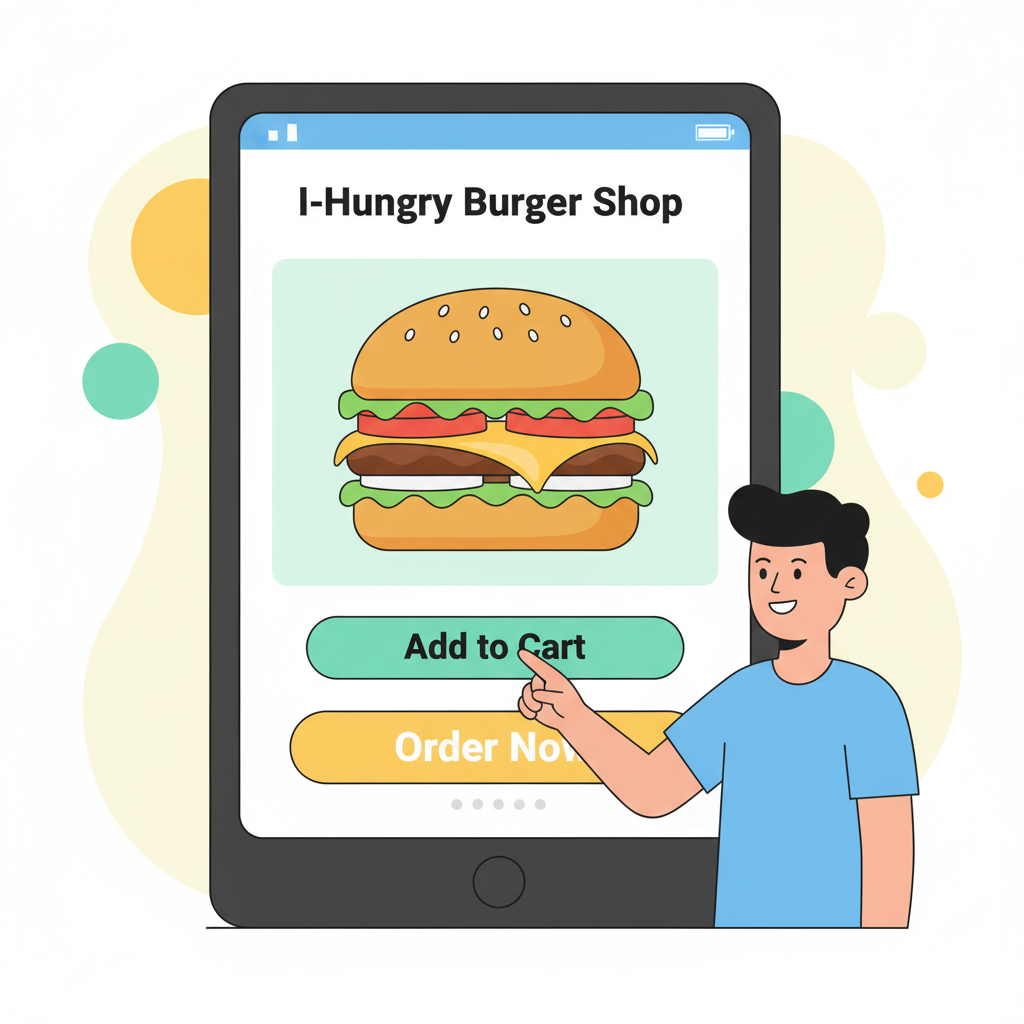
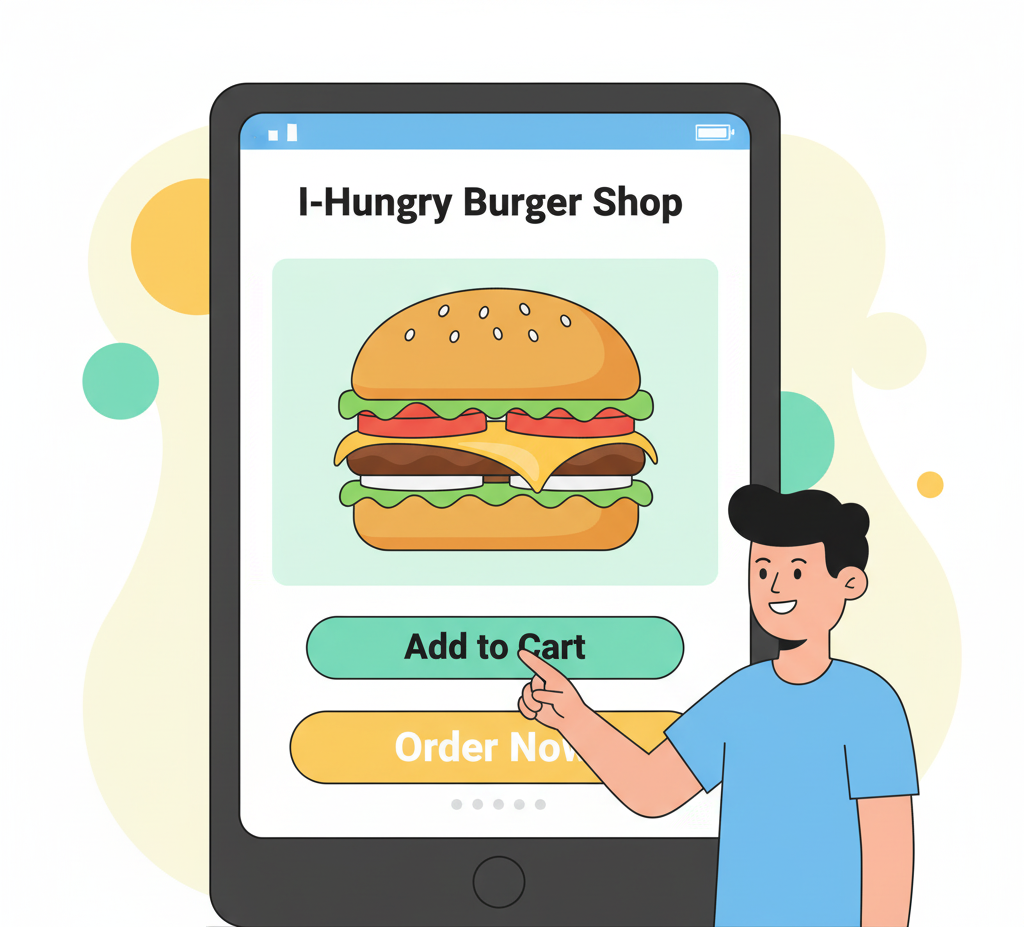
Updated featured projects section in index.html

diff --git a/Personal Portfolio/index.html b/Personal Portfolio/index.html
@@ -41,7 +41,7 @@
             </div>
             <div class="col-lg-6">
                 <h1 class="display-5 fw-bold lh-1 mb-3 hero_heading_text">
-                    Hey, I'm Shameel Software Engineering Student
+                    Hey, I'm Shameel Shajaad, Software Engineering Student
                 </h1>
                 <p class="lead hero_text">
                     I’m a Software Engineering student passionate about Java, web
@@ -54,7 +54,7 @@
 
     <!-- SKILLS & TOOLS -->
 
-    <div class="container text-center mt-5">
+    <div class="container_padding text-center mt-5">
         <h2 class="text-white mb-4">Skills & Tools</h2>
         <div class="d-flex justify-content-center flex-wrap gap-3">
             <span class="badge bg-primary">Java</span>
@@ -71,7 +71,7 @@
 
     <!-- FEATURED PROJECTS -->
 
-    <div class="container mt-5">
+    <div class="container_padding mt-5">
         <h2 class="text-white text-center mb-4">Featured Projects</h2>
 
         <br>
@@ -80,7 +80,7 @@
         <div class="container">
             <div class="row row-cols-1 row-cols-sm-2 row-cols-md-3 g-3">
                 <div class="col">
-                    <div class="card shadow-sm">
+                    <div class="card project_card">
                         <img src="assets/images/Project - I Hungry Burger Shop.png"
                             class="bd-placeholder-img card-img-top" height="400" width="100%" alt="Project Thumbnail">
                         <div class="card-body">
@@ -91,7 +91,7 @@
                             </p>
                             <div class="d-flex justify-content-between align-items-center">
                                 <div class="btn-group">
-                                    <button type="button" class="btn btn-sm btn-outline-secondary">
+                                    <button type="button" class="btn btn-outline-info btn-sm w-100">
                                         <a href="https://github.com/ShameelShajaad/I-Hungry-Burger-Shop"
                                             class="btn btn-sm">
                                             View On Github
@@ -104,7 +104,7 @@
                 </div>
 
                 <div class="col">
-                    <div class="card shadow-sm">
+                    <div class="card project_card">
                         <img src="assets/images/Project - Tax Calculator.png" class="bd-placeholder-img card-img-top"
                             height="400" width="100%" alt="Project Thumbnail">
                         <div class="card-body">
@@ -114,7 +114,7 @@
                             </p>
                             <div class="d-flex justify-content-between align-items-center">
                                 <div class="btn-group">
-                                    <button type="button" class="btn btn-sm btn-outline-secondary">
+                                    <button type="button" class="btn btn-outline-info btn-sm w-100">
                                         <a href="https://github.com/ShameelShajaad/Tax-Calculator" class="btn btn-sm">
                                             View On Github
                                         </a>
@@ -126,7 +126,7 @@
                 </div>
 
                 <div class="col">
-                    <div class="card shadow-sm">
+                    <div class="card project_card">
                         <img src="assets/images/Project - School Website.png" class="bd-placeholder-img card-img-top"
                             height="400" width="100%" alt="Project Thumbnail">
                         <div class="card-body">
@@ -137,7 +137,7 @@
                             <br>
                             <div class="d-flex justify-content-between align-items-center">
                                 <div class="btn-group">
-                                    <button type="button" class="btn btn-sm btn-outline-secondary">
+                                    <button type="button" class="btn btn-outline-info btn-sm w-100">
                                         <a href="https://github.com/ShameelShajaad/Internet-Technologies---School-Website"
                                             class="btn btn-sm">
                                             View On Github
@@ -148,35 +148,42 @@
                         </div>
                     </div>
                 </div>
+            </div>
 
-                <!-- DIRECT LINK TO PROJECTS & CONTACT -->
+            <br>
+            <br>
 
-                <div class="text-center mt-4">
-                    <a href="projects.html" class="btn btn-outline-info btn-lg me-3">View Projects</a>
-                    <a href="contact.html" class="btn btn-outline-light btn-lg">Contact Me</a>
-                </div>
-                <!-- FOOTER -->
+            <!-- DIRECT LINK TO PROJECTS & CONTACT -->
 
-                <div class="container">
-                    <footer class="py-3 my-4">
-                        <ul class="nav justify-content-center border-bottom pb-3 mb-3">
-                            <li class="nav-item">
-                                <a href="#" class="nav-link px-2 text-body-secondary">Home</a>
-                            </li>
-                            <li class="nav-item">
-                                <a href="#" class="nav-link px-2 text-body-secondary">About</a>
-                            </li>
-                            <li class="nav-item">
-                                <a href="#" class="nav-link px-2 text-body-secondary">Projects</a>
-                            </li>
-                            <li class="nav-item">
-                                <a href="#" class="nav-link px-2 text-body-secondary">Contact</a>
-                            </li>
-                        </ul>
-                        <p class="text-center text-body-secondary">© Shameel Shajaad</p>
-                    </footer>
-                </div>
-                <script src="assets/js/app.js"></script>
+            <div class="text-center mt-4">
+                <a href="projects.html" class="btn btn-outline-info btn-lg me-3 direct_link">View Projects</a>
+                <a href="contact.html" class="btn btn-outline-light btn-lg direct_link">Contact Me</a>
+            </div>
+
+            <br>
+            <br>
+        </div>
+    </div>
+
+    <!-- FOOTER -->
+
+    <footer class="py-3 my-4">
+        <ul class="nav justify-content-center border-bottom pb-3 mb-3">
+            <li class="nav-item">
+                <a href="index.html" class="nav-link px-2 ">Home</a>
+            </li>
+            <li class="nav-item">
+                <a href="about.html" class="nav-link px-2">About</a>
+            </li>
+            <li class="nav-item">
+                <a href="projects.html" class="nav-link px-2">Projects</a>
+            </li>
+            <li class="nav-item">
+                <a href="contact.html" class="nav-link px-2">Contact</a>
+            </li>
+        </ul>
+        <p class="text-center">© Shameel Shajaad</p>
+    </footer>
 </body>
 
 </html>

diff --git a/Personal Portfolio/assets/css/style.css b/Personal Portfolio/assets/css/style.css
@@ -35,9 +35,48 @@ body {
   transition: 0.3s;
   box-shadow: 0 0 20px #00bfff;
 }
-.container {
+.container_padding {
   padding-bottom: 100px;
 }
 .card-img-top {
   object-fit: cover;
+}
+.card {
+  background-color: #1a1a2e;
+  color: white;
+  border: none;
+  border-radius: 12px;
+}
+.card-body p {
+  color: white;
+}
+.card-body a {
+  color: white;
+}
+footer .nav-link {
+  color: white;
+}
+footer p {
+  color: white;
+}
+
+footer .nav-link:hover {
+  color: #00bfff;
+}
+footer {
+  padding-top: 20px;
+  margin-top: 50px;
+}
+.btn-outline-info:hover {
+  background-color: #00bfff;
+  color: #0e0e1a;
+  box-shadow: 0 0 15px #00bfff;
+}
+.project_card:hover {
+  transform: translateY(-5px);
+  transition: 0.5s;
+  box-shadow: 0 0 20px #00bfff;
+}
+.direct_link:hover{
+  transition: 0.4s;
 }
